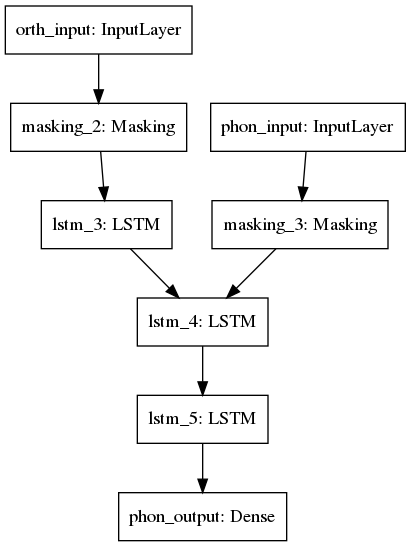
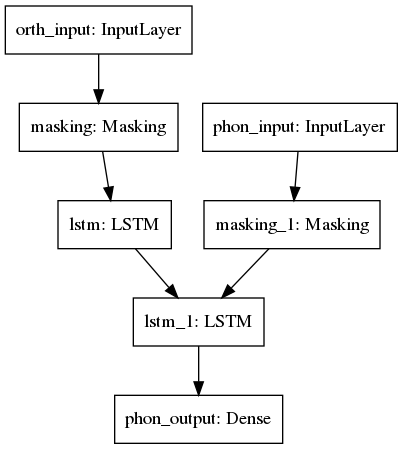
models and models

Changed region(s): [[0.0, 0.0, 1.0, 0.8107], [0.268, 0.8419, 0.7146, 0.9978]]

diff --git a/models/1_kinder/EncoderDecoder-decode.py b/models/1_kinder/EncoderDecoder-decode.py
@@ -20,15 +20,20 @@ words = pd.read_csv('../../inputs/encoder-decoder-words.csv', header=None)[0].to
 ############
 #%% load
 Xo_ = np.load('../../inputs/orth-left.npy')
-Xp_ = np.load('../../inputs/phon-left.npy')
-Yp_ = np.load('../../inputs/phon-left.npy')
+Xp_ = np.load('../../inputs/phon-sos-left.npy')
+Yp_ = np.load('../../inputs/phon-eos-left.npy')
+
 Yp_ = changepad(Yp_, old=9, new=0)
-phonreps = loadreps('../../inputs/phonreps.json', changepad=True)
+#%%
+phonreps = loadreps('../../inputs/phonreps-with-terminals.json', changepad=True)
+#phonreps = loadreps('../../inputs/phonreps.json', changepad=True)
 orthreps = loadreps('../../inputs/raw/orthreps.json')
 #%%
 # dummy patterns:
 Xo_dummy = np.zeros(Xo_.shape)
 Xp_dummy = np.zeros(Xp_.shape)
+Xo_masked = np.full(Xo_.shape, 9)
+Xp_masked = np.full(Xp_.shape, 9)
 
 def sample(n, Xo, Xp, Xy, labels = None, seed = 123):
     import random
@@ -41,11 +46,11 @@ def sample(n, Xo, Xp, Xy, labels = None, seed = 123):
         return Xo[s], Xp[s], Xy[s]
 
 #%%
-Xo_1, Xp_1, Yp_1, words_1 = sample(300, Xo_, Xp_, Yp_, labels = words)
+Xo_1, Xp_1, Yp_1, words_1 = sample(1000, Xo_, Xp_, Yp_, labels = words)
 Xo_2, Xp_2, Yp_2, words_2 = sample(700, Xo_, Xp_, Yp_, labels = words)
 
 # %% step one: phonological pretraining
-left = Learner(Xo_dummy, Xp_, Yp_, epochs=10, devices=False, monitor=False)
+left = Learner(Xo_, Xp_, Yp_, epochs=50, hidden=300, devices=False)
 
 #%% step two: orth and phon together
 left.model.fit([Xo_, Xp_], Yp_, epochs=5)
@@ -53,16 +58,6 @@ left.model.fit([Xo_, Xp_], Yp_, epochs=5)
 
 #%% step three: just orth to phon
 left.model.fit([Xo_, Xp_dummy], Yp_, epochs=5)
-
-
-#%%
-left.model.fit([Xo_2, Xp_2], Yp_2, epochs=10)
-
-
-#%% 
-# train more:
-left.model.fit([Xo_, Xp_dummy], Yp_, epochs=5)
-
 
 
 #%% decode
@@ -74,12 +69,11 @@ orthshape = (1, Xo_.shape[1], Xo_.shape[2])
 dummyP = np.zeros(phonshape)
 dummyO = np.zeros(orthshape)
 #%%
-i = word1
-p = word2 
+i = 6793
 testword = words[i]
 xo = reshape(Xo_[i])
 xp = reshape(Xp_[i])
-out = left.model.predict([xo, dummyP])
+out = left.model.predict([xo, xp])
 
 
 
@@ -94,3 +88,6 @@ print('Actual: ', decode(Yp_[i], phonreps))
 
 plot(left.model)
 # %%
+
+
+

diff --git a/models/1_kinder/DualInput.py b/models/1_kinder/DualInput.py
@@ -1,0 +1,68 @@
+
+#%%
+import tensorflow as tf
+from keras.models import Model
+from keras.layers import Input, LSTM, Dense, Masking, RepeatVector, TimeDistributed, Concatenate
+from utilities import changepad, loadreps, decode, reshape 
+import numpy as np
+import time
+import pandas as pd
+
+
+
+Xo = np.load('../../inputs/orth-left.npy')
+Xp = np.load('../../inputs/phon-left.npy')
+
+Y = np.load('../../inputs/phon-left.npy')
+Y = changepad(Y, old=9, new=0)
+words = pd.read_csv('../../inputs/encoder-decoder-words.csv', header=None)[0].tolist()
+phonreps = loadreps('../../inputs/phonreps.json', changepad=True)
+
+
+hidden = 100
+optimizer='rmsprop'
+loss="categorical_crossentropy"
+epochs = 2
+batch_size = 100
+train_proportion = .9
+
+orth_inputs = Input(shape=(None, Xo.shape[2]), name='orth_input')
+orth_inputs_masked = Masking(mask_value=9)(orth_inputs)
+orth = LSTM(hidden, return_sequences=False, name = 'orthographic_lstm') # set return_sequences to True if no RepeatVector
+orth_outputs = orth(orth_inputs_masked)
+
+
+
+phon_inputs = Input(shape=(None, Xp.shape[2]), name='phon_input')
+phon_inputs_masked = Masking(mask_value=9)(phon_inputs)
+phon = LSTM(hidden, return_sequences=False, name='phonological_lstm')
+phon_outputs = phon(phon_inputs_masked)
+
+merge = Concatenate()
+merge_output = merge([phon_outputs, orth_outputs])
+
+deep = Dense(hidden, activation='sigmoid')
+deep_outputs = deep(merge_output)
+phon_dense = TimeDistributed(Dense(Y.shape[2], activation='sigmoid'), name='phon_output')
+
+phon_outputs = phon_dense(phon_outputs)
+model = Model(orth_inputs, phon_outputs)
+metric = [tf.keras.metrics.BinaryAccuracy(name = "binary_accuracy", dtype = None, threshold=0.5)]
+
+
+model.compile(optimizer=optimizer, loss=loss, metrics=metric)
+model.summary()
+
+t1 = time.time()
+model.fit([Xo, Xp], Y, batch_size=batch_size, epochs=epochs, validation_split=(1-train_proportion))
+
+
+learntime = round((time.time()-t1)/60, 2)
+# %%
+# inspect a prediction
+i = 203
+print('word to predict:', words[i])
+out = model.predict(reshape(X[i]))
+print('Predicted:', decode(out, phonreps))
+print('True:', decode(Y[i], phonreps))
+# %%

diff --git a/models/1_kinder/Lstm2lstm_.py b/models/1_kinder/Lstm2lstm_.py
@@ -1,0 +1,61 @@
+
+#%%
+import tensorflow as tf
+from keras.models import Model
+from keras.layers import Input, LSTM, Dense, Masking, RepeatVector, TimeDistributed
+from utilities import changepad, loadreps, decode, reshape 
+import numpy as np
+import time
+import pandas as pd
+
+
+#X = np.load('../../inputs/orth-left.npy')
+
+X = np.load('../../inputs/phon-left.npy')
+
+Y = np.load('../../inputs/phon-left.npy')
+Y = changepad(Y, old=9, new=0)
+words = pd.read_csv('../../inputs/encoder-decoder-words.csv', header=None)[0].tolist()
+phonreps = loadreps('../../inputs/phonreps.json', changepad=True)
+
+
+hidden = 100
+optimizer='rmsprop'
+loss="categorical_crossentropy"
+epochs = 2
+batch_size = 100
+train_proportion = .9
+
+orth_inputs = Input(shape=(None, X.shape[2]), name='orth_input')
+orth_inputs_masked = Masking(mask_value=9)(orth_inputs)
+orth = LSTM(hidden, return_state=True, return_sequences=True, name = 'orthographic_lstm') # set return_sequences to True if no RepeatVector
+orth_outputs, state_h, state_c = orth(orth_inputs_masked)
+orth_states = [state_h, state_c]
+deep = LSTM(hidden, return_state=True, return_sequences=True, name = 'deep_lstm') # set return_sequences to True if no RepeatVector
+deep_outputs, state_h, state_c = deep(orth_outputs)
+
+phon_lstm = LSTM(hidden, return_sequences=True, return_state=True)
+phon_outputs, _, _ = phon_lstm(deep_outputs)
+phon_dense = TimeDistributed(Dense(Y.shape[2], activation='sigmoid'), name='phon_output')
+
+phon_outputs = phon_dense(phon_outputs)
+model = Model(orth_inputs, phon_outputs)
+metric = [tf.keras.metrics.BinaryAccuracy(name = "binary_accuracy", dtype = None, threshold=0.5)]
+
+
+model.compile(optimizer=optimizer, loss=loss, metrics=metric)
+model.summary()
+
+t1 = time.time()
+model.fit(X, Y, batch_size=batch_size, epochs=epochs, validation_split=(1-train_proportion))
+
+
+learntime = round((time.time()-t1)/60, 2)
+# %%
+# inspect a prediction
+i = 203
+print('word to predict:', words[i])
+out = model.predict(reshape(X[i]))
+print('Predicted:', decode(out, phonreps))
+print('True:', decode(Y[i], phonreps))
+# %%

diff --git a/models/1_kinder/EncoderDecoder.py b/models/1_kinder/EncoderDecoder.py
@@ -1,13 +1,13 @@
 
 import tensorflow as tf
 from keras.models import Model
-from keras.layers import Input, LSTM, Dense, Masking
+from keras.layers import Input, LSTM, Dense, Masking, TimeDistributed
 import numpy as np
 import time
 
 class Learner():
 
-    def __init__(self, Xe, Xd, Y, labels=None, op_names=True, train_proportion=.9, hidden=300, batch_size=100, epochs=20,  transfer_function='sigmoid', optimizer='rmsprop', loss="categorical_crossentropy", accuracy='binary', monitor=True, seed=886, devices=True, memory_growth=True):
+    def __init__(self, Xe, Xd, Y, labels=None, op_names=True, train_proportion=.9, hidden=300, batch_size=100, epochs=20,  transfer_function='sigmoid', optimizer='rmsprop', loss="categorical_crossentropy", accuracy='binary', seed=886, devices=True, memory_growth=True):
 
 
         np.random.seed(seed)
@@ -68,11 +68,8 @@ class Learner():
         
         decoder_lstm = LSTM(hidden, return_sequences=True, return_state=True)
         decoder_outputs, _, _ = decoder_lstm(decoder_inputs_masked, initial_state=encoder_states)
-        deep_lstm = LSTM(200, return_sequences=True, return_state=True)
-        deep_outputs, _, _ = deep_lstm(decoder_outputs)
         decoder_dense = Dense(Xd.shape[2], activation=transfer_function, name=output_name)
-        #decoder_outputs = decoder_dense(decoder_outputs)
-        decoder_outputs = decoder_dense(deep_outputs)
+        decoder_outputs = decoder_dense(decoder_outputs)
         model = Model([encoder_inputs, decoder_inputs], decoder_outputs)
 
         self.encoder_inputs = encoder_inputs
@@ -109,4 +106,4 @@ class Learner():
 
 
 if __name__ == "__main__":
-    seq2seq()
+    Learner()

diff --git a/models/1_kinder/EncoderDecoder2.py b/models/1_kinder/EncoderDecoder2.py
@@ -1,7 +1,7 @@
 
 import tensorflow as tf
 from keras.models import Model
-from keras.layers import Input, LSTM, Dense, Masking
+from keras.layers import Input, LSTM, Dense, Masking, TimeDistributed
 import numpy as np
 import time
 
@@ -16,7 +16,7 @@ this leads to less-than-perfect performance.
 
 class Learner():
 
-    def __init__(self, Xp, Xo, Yp, labels=None, op_names=True, train_proportion=.9, hidden=300, batch_size=100, epochs=20,  transfer_function='sigmoid', optimizer='rmsprop', loss="categorical_crossentropy", accuracy='binary', monitor=True, seed=886, devices=True, memory_growth=True):
+    def __init__(self, Xp, Xo, Yp, labels=None, op_names=True, train_proportion=.9, hidden=300, batch_size=100, epochs=20, time_distributed=False, transfer_function='sigmoid', optimizer='rmsprop', loss="categorical_crossentropy", accuracy='binary', seed=886, devices=True, memory_growth=True):
 
 
         np.random.seed(seed)
@@ -77,7 +77,10 @@ class Learner():
         decoder_lstm = LSTM(hidden, return_sequences=True, return_state=True)
         decoder_outputs, _, _ = decoder_lstm(decoder_inputs_masked,
                                             initial_state=encoder_states)
-        decoder_dense = Dense(Xp.shape[2], activation=transfer_function, name=output_name)
+        if time_distributed:
+            decoder_dense = TimeDistributed(Dense(Xp.shape[2], activation=transfer_function), name=output_name)
+        else:
+            decoder_dense = Dense(Xp.shape[2], activation=transfer_function, name=output_name)
         decoder_outputs = decoder_dense(decoder_outputs)
 
         model = Model([encoder_inputs, decoder_inputs], decoder_outputs)

diff --git a/models/1_kinder/really-simple-network.py b/models/1_kinder/really-simple-network.py
@@ -1,17 +1,26 @@
 
 #%%
+import keras
 from keras.models import Model
 from keras.layers import Input
 from keras.layers import LSTM
 from numpy import array
 from tensorflow.keras.utils import plot_model as plot
 
-input_layer = Input(shape=(2, 1), name='layer_1')
-lstm_layer, h, c = LSTM(1, return_sequences=False, return_state=False, name = 'layer_2')(input_layer)
-layers = Model(inputs=input_layer, outputs=[lstm_layer, h, c])
+input_layer = Input(shape=(3, 1), name='layer_1')
+lstm_layer, h, c = LSTM(1, return_sequences=True, return_state=True, name = 'layer_2')(input_layer)
+learner = Model(inputs=input_layer, outputs=[lstm_layer, h, c])
 #%%
-X = array([.8, 6]).reshape((1,2,1))
-output, hidden_state, cell_state = layers.predict(X)
+X = array([.8, 6, .1]).reshape((1,3,1))
+output, hidden_state, cell_state = learner.predict(X)
 # %%
-plot(layers)
+plot(learner)
+# %%
+# figuring out activations:
+layer_index = 1
+test_acts = keras.Model(inputs=learner.inputs, outputs=[layer.output for layer in learner.layers])
+
+acts_all = test_acts(X)
+acts = array(acts_all[layer_index])
+
 # %%

diff --git a/models/1_kinder/EncoderDecoder_.py b/models/1_kinder/EncoderDecoder_.py
@@ -7,13 +7,14 @@ from keras.models import Model
 from keras.layers import Input, LSTM, Dense, Masking
 import numpy as np
 
+from utilities import reshape
 
 #%%
 
 
 X = np.load('../../inputs/orth-left.npy')
-Xphon = np.load('../../inputs/phon-left.npy')
-Y = np.load('../../inputs/phon-left.npy')
+Xphon = np.load('../../inputs/phon-sos-left.npy')
+Y = np.load('../../inputs/phon-eos-left.npy')
 Y[0][-1] # should be all nines
 #%%
 Y[Y==9] = 0 # change the mask value on the outputs because it messes up the accuracy calculation
@@ -21,9 +22,9 @@ Y[0][-1] # should be all zeros
 #%%
 num_encoder_tokens = X.shape[2]
 num_decoder_tokens = Xphon.shape[2]
-latent_dim = 300
+latent_dim = 400
 batch_size = 100
-epochs = 1
+epochs = 20
 #%%
 
 
@@ -68,3 +69,8 @@ model.fit([X, Xphon], Y,
           epochs=epochs,
           validation_split=0.20)
 #%%
+from tensorflow.keras.utils import plot_model as plot
+inspect = Model(inputs=encoder_inputs, outputs=encoder_outputs)
+plot(inspect)
+out = inspect.predict([reshape(X[0]), reshape(Xphon[0])])
+# %%

diff --git a/models/1_kinder/EncoderDecoder2-decode.py b/models/1_kinder/EncoderDecoder2-decode.py
@@ -15,7 +15,7 @@ orthreps = loadreps('../../inputs/raw/orthreps.json')
 words = pd.read_csv('../../inputs/encoder-decoder-words.csv', header=None)[0].tolist()
 
 #%%
-l = Learner(Xp_, Xo_, Yp_, hidden=200)
+l = Learner(Xp_, Xo_, Yp_, hidden=500, epochs=2, time_distributed=True, train_proportion=.8, batch_size=125, devices=False)
 # %%
 plot(l.model)
 # %%
@@ -24,14 +24,11 @@ orthshape = Xo_.shape
 
 Xp_dummy = np.zeros(phonshape)
 Xo_dummy = np.zeros(orthshape)
-# %% train on dummy
-l_phononly = Learner(Xp_, Xo_dummy, Yp_, hidden=200)
-
 
 #%%
-i = 2109
+i = 2
 print('word to predict:', words[i])
-Yhat = l_phononly.model.predict([reshape(Xp_[i]), reshape(Xo_dummy[i])])
+Yhat = l.model.predict([reshape(Xp_[i]), reshape(Xo_dummy[i])])
 print('Predicted:', decode(Yhat, phonreps))
 print('True:', decode(Yp_[i], phonreps))
 
